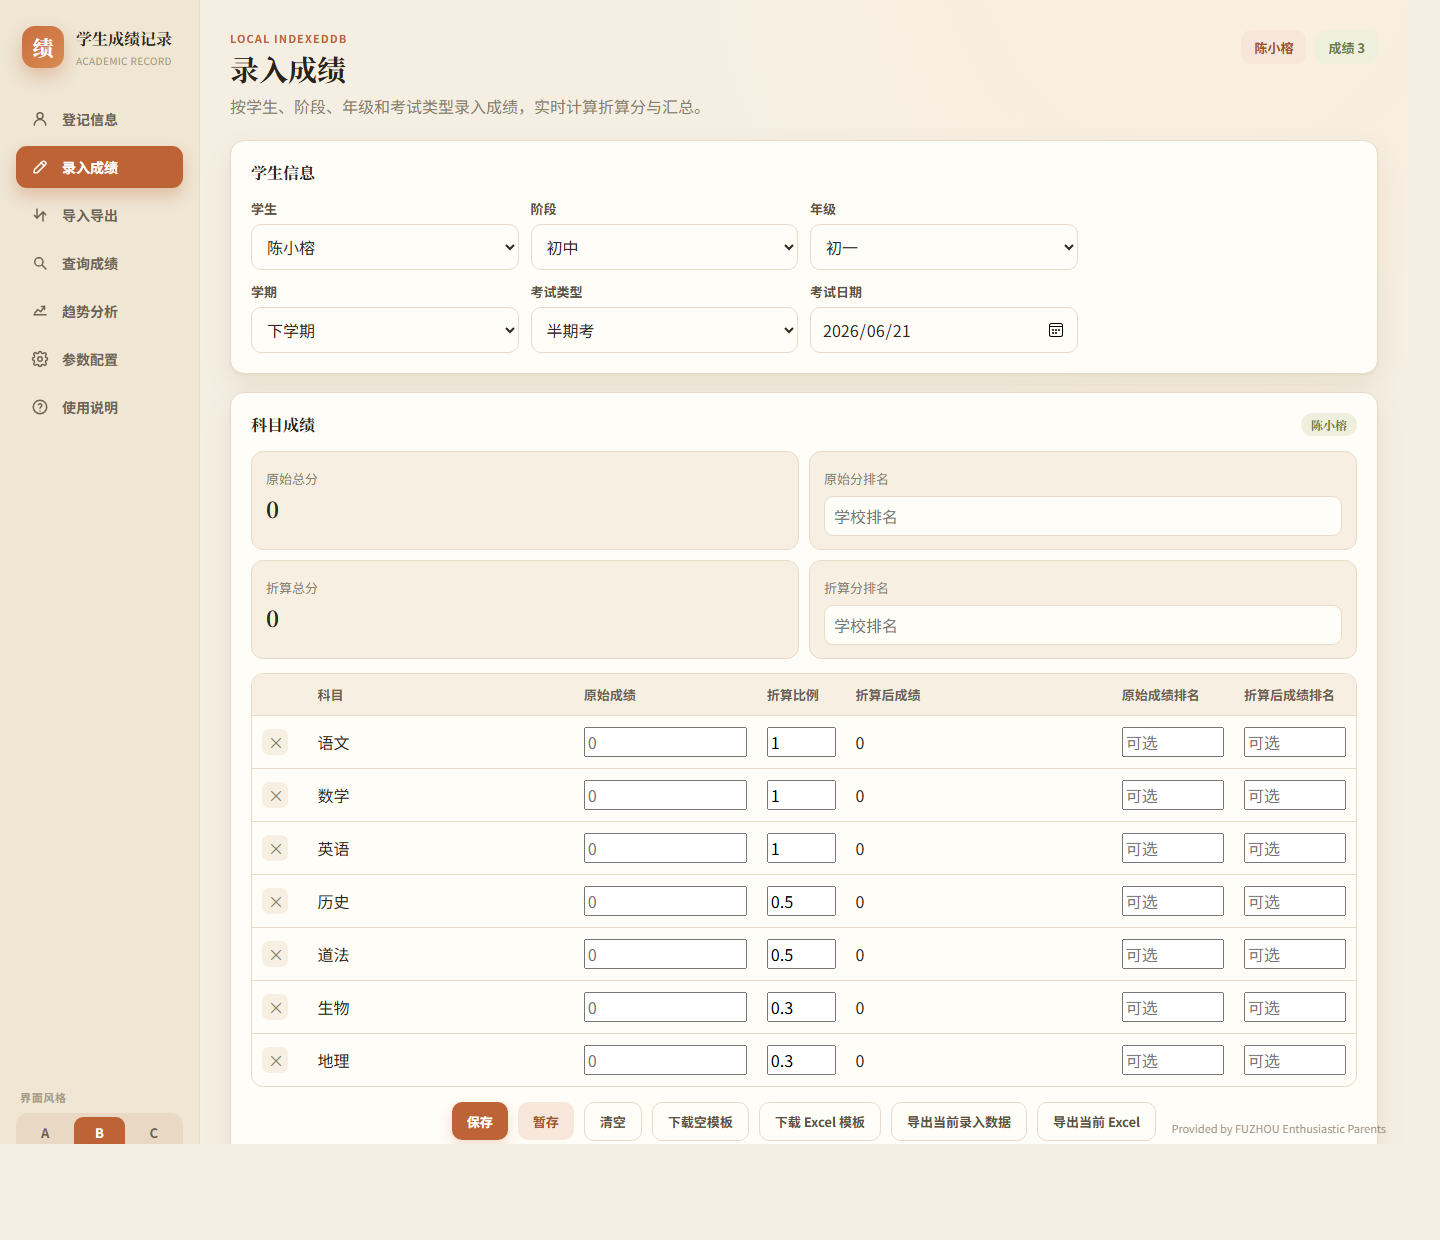
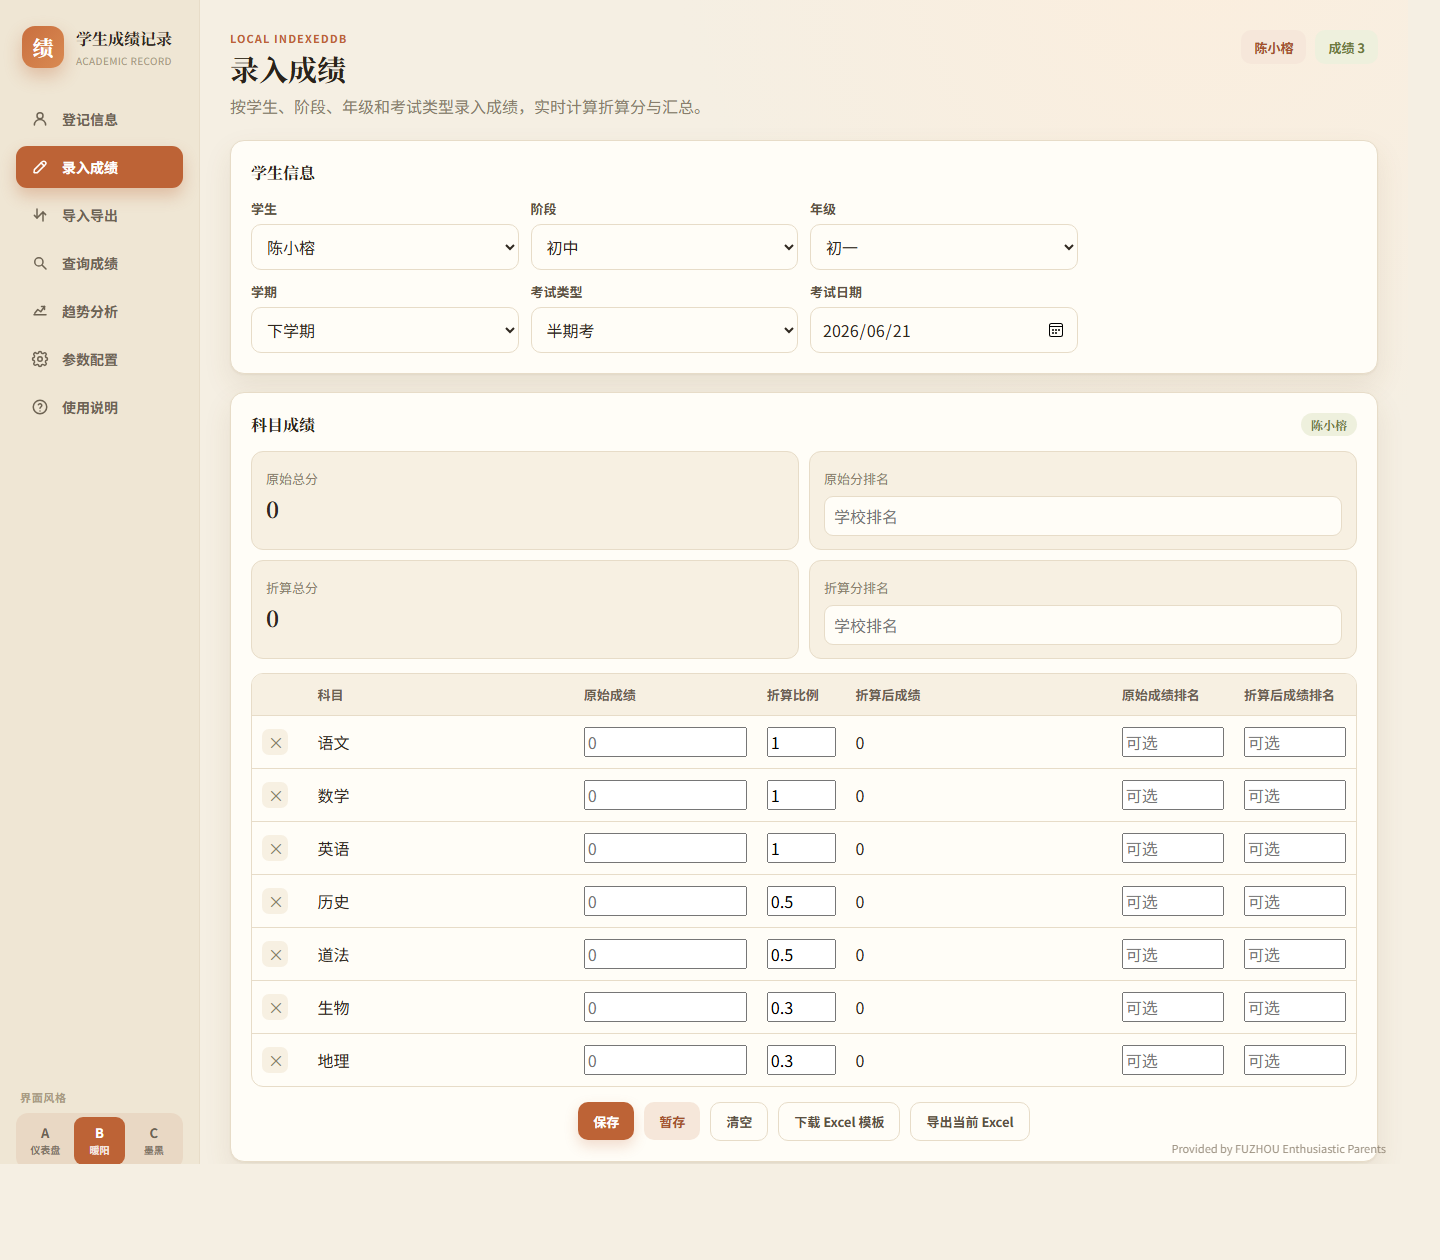
录入页移除重复的 CSV 导出按钮，仅保留 Excel
- 删除「下载空模板」「导出当前录入数据」两个 CSV 按钮及其事件
- 保留「下载 Excel 模板」「导出当前 Excel」
- 更新录入页截图

diff --git a/学生成绩记录-美化版.html b/学生成绩记录-美化版.html
@@ -2084,9 +2084,7 @@ function renderEntryView() {
           ${state.draft ? '<button class="button ghost" type="button" id="restore-draft">恢复暂存</button>' : ''}
           ${state.editingScoreId ? '<button class="button ghost" type="button" id="cancel-edit">取消编辑</button>' : ''}
           <button class="button ghost" type="button" id="clear-entry">清空</button>
-          <button class="button ghost" type="button" id="download-current-template">下载空模板</button>
           <button class="button ghost" type="button" id="download-current-template-excel">下载 Excel 模板</button>
-          <button class="button ghost" type="button" id="export-current-entry">导出当前录入数据</button>
           <button class="button ghost" type="button" id="export-current-entry-excel">导出当前 Excel</button>
         </div>
       </section>
@@ -2603,15 +2601,8 @@ function bindEntryView() {
     form.totalConvertedRank.value = '';
     updateEntryTotals();
   });
-  form.querySelector('#download-current-template')?.addEventListener('click', () => {
-    downloadText(buildCurrentBlankTemplate(), `成绩空模板-${todayString()}.csv`, 'text/csv;charset=utf-8');
-  });
   form.querySelector('#download-current-template-excel')?.addEventListener('click', () => {
     downloadText(buildCurrentBlankTemplateExcel(), `成绩空模板-${todayString()}.xls`, 'application/vnd.ms-excel;charset=utf-8');
-  });
-  form.querySelector('#export-current-entry')?.addEventListener('click', () => {
-    const record = readEntryRecord({ allowEmpty: true });
-    downloadText(exportRecordsToCsv([record]), `当前录入成绩-${record.studentName}-${record.examDate}.csv`, 'text/csv;charset=utf-8');
   });
   form.querySelector('#export-current-entry-excel')?.addEventListener('click', () => {
     const record = readEntryRecord({ allowEmpty: true });